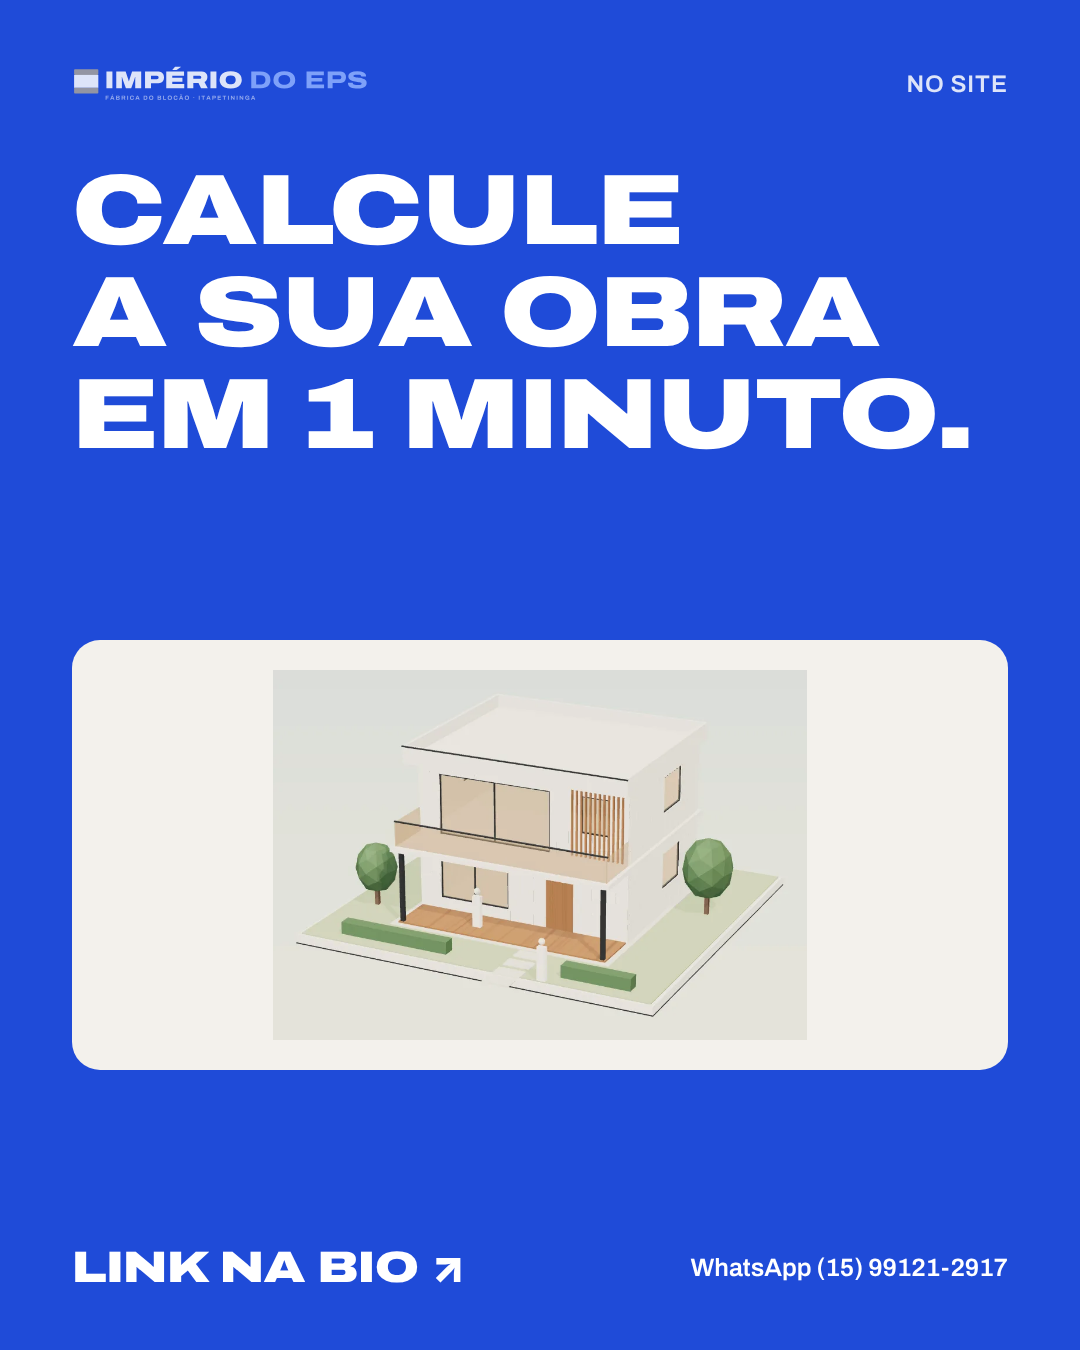
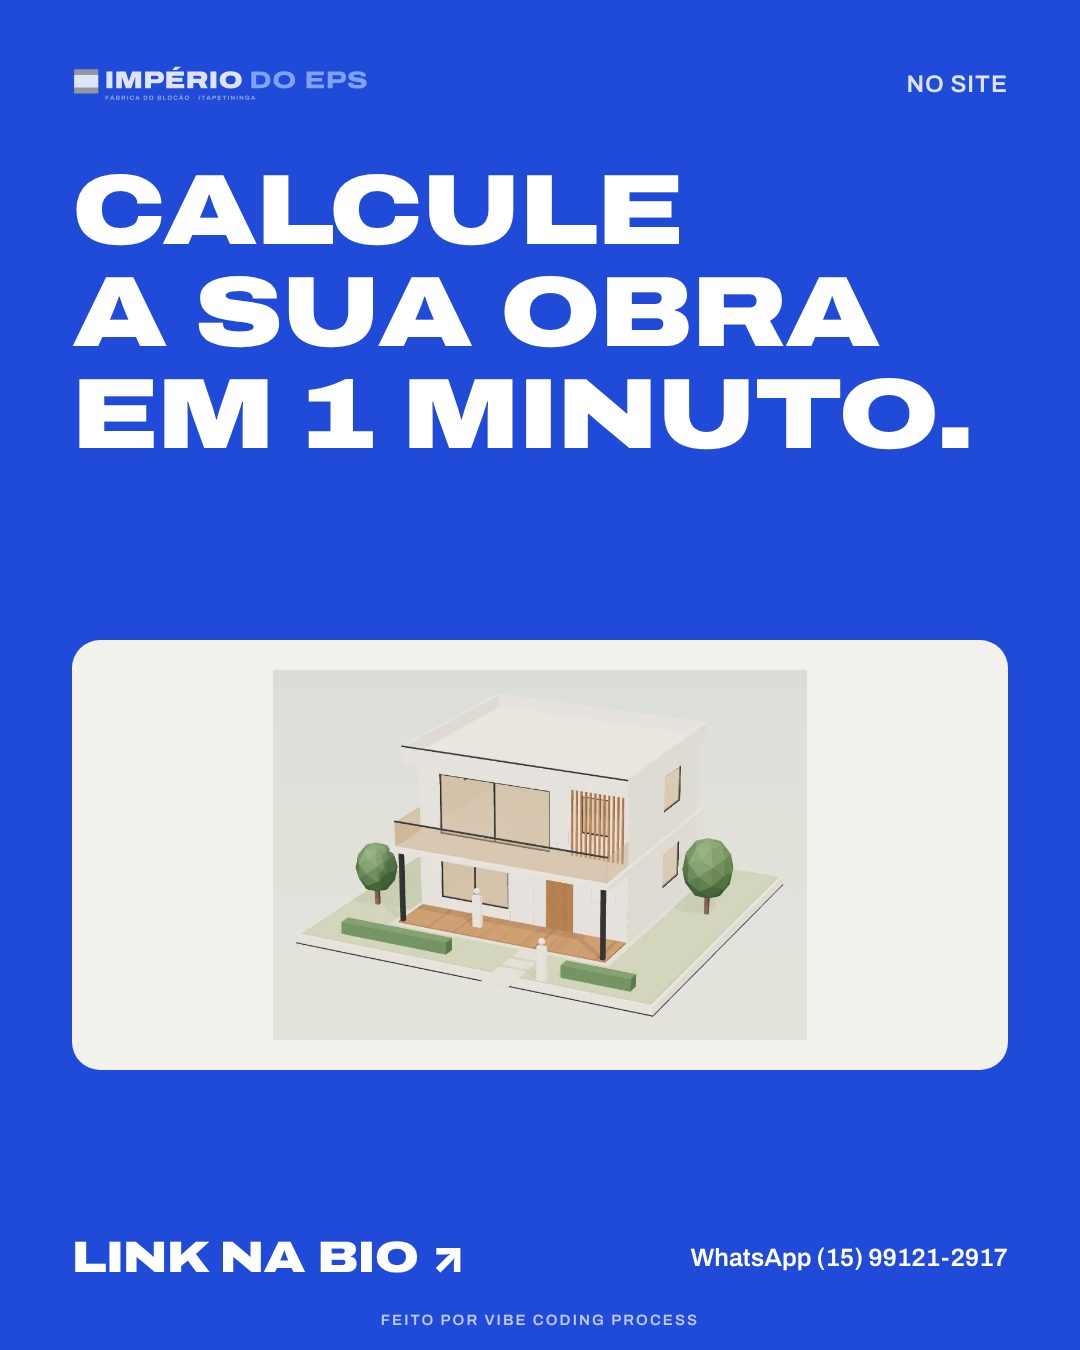
Instagram: assinatura VIBE CODING PROCESS também no post 07
Claude-Session: https://claude.ai/code/session_011uPVPSULknKZL96Cy48nwn

Changed region(s): [[0.0611, 0.9022, 0.6417, 0.9956], [0.6417, 0.9022, 0.9167, 0.9644]]

diff --git a/brand/instagram/posts/src/07-calcule-sua-obra.html b/brand/instagram/posts/src/07-calcule-sua-obra.html
@@ -21,6 +21,7 @@ body { width: 1080px; height: 1350px; font-family: Archivo, system-ui, sans-seri
     <div style="position:absolute;left:72px;right:72px;top:640px;background:var(--cal);border-radius:28px;padding:30px;height:430px;display:flex;align-items:center;justify-content:center">
       <img src="../../../../assets/img/casa-media.webp" style="height:100%;mix-blend-mode:multiply" alt="">
     </div>
-    <div style="position:absolute;left:72px;right:72px;bottom:60px;display:flex;justify-content:space-between;align-items:center">
+    <div style="position:absolute;left:72px;right:72px;bottom:70px;display:flex;justify-content:space-between;align-items:center">
       <span class="exp" style="font-size:44px">Link na bio ↗</span><span style="font-size:25px;font-weight:600">WhatsApp (15) 99121-2917</span>
-    </div></body></html>
+    </div>
+    <div style="position:absolute;left:0;right:0;bottom:22px;text-align:center;font-size:15px;font-weight:600;letter-spacing:.14em;text-transform:uppercase;opacity:.7">Feito por VIBE CODING PROCESS</div></body></html>

diff --git a/brand/scripts/gerar_posts.js b/brand/scripts/gerar_posts.js
@@ -181,9 +181,10 @@ const POSTS = {
     <div style="position:absolute;left:72px;right:72px;top:640px;background:var(--cal);border-radius:28px;padding:30px;height:430px;display:flex;align-items:center;justify-content:center">
       <img src="${A("assets/img/casa-media.webp")}" style="height:100%;mix-blend-mode:multiply" alt="">
     </div>
-    <div style="position:absolute;left:72px;right:72px;bottom:60px;display:flex;justify-content:space-between;align-items:center">
+    <div style="position:absolute;left:72px;right:72px;bottom:70px;display:flex;justify-content:space-between;align-items:center">
       <span class="exp" style="font-size:44px">Link na bio ↗</span><span style="font-size:25px;font-weight:600">WhatsApp ${WHATS}</span>
-    </div></body>`,
+    </div>
+    <div style="position:absolute;left:0;right:0;bottom:22px;text-align:center;font-size:15px;font-weight:600;letter-spacing:.14em;text-transform:uppercase;opacity:.7">Feito por VIBE CODING PROCESS</div></body>`,
 };
 
 (async () => {
